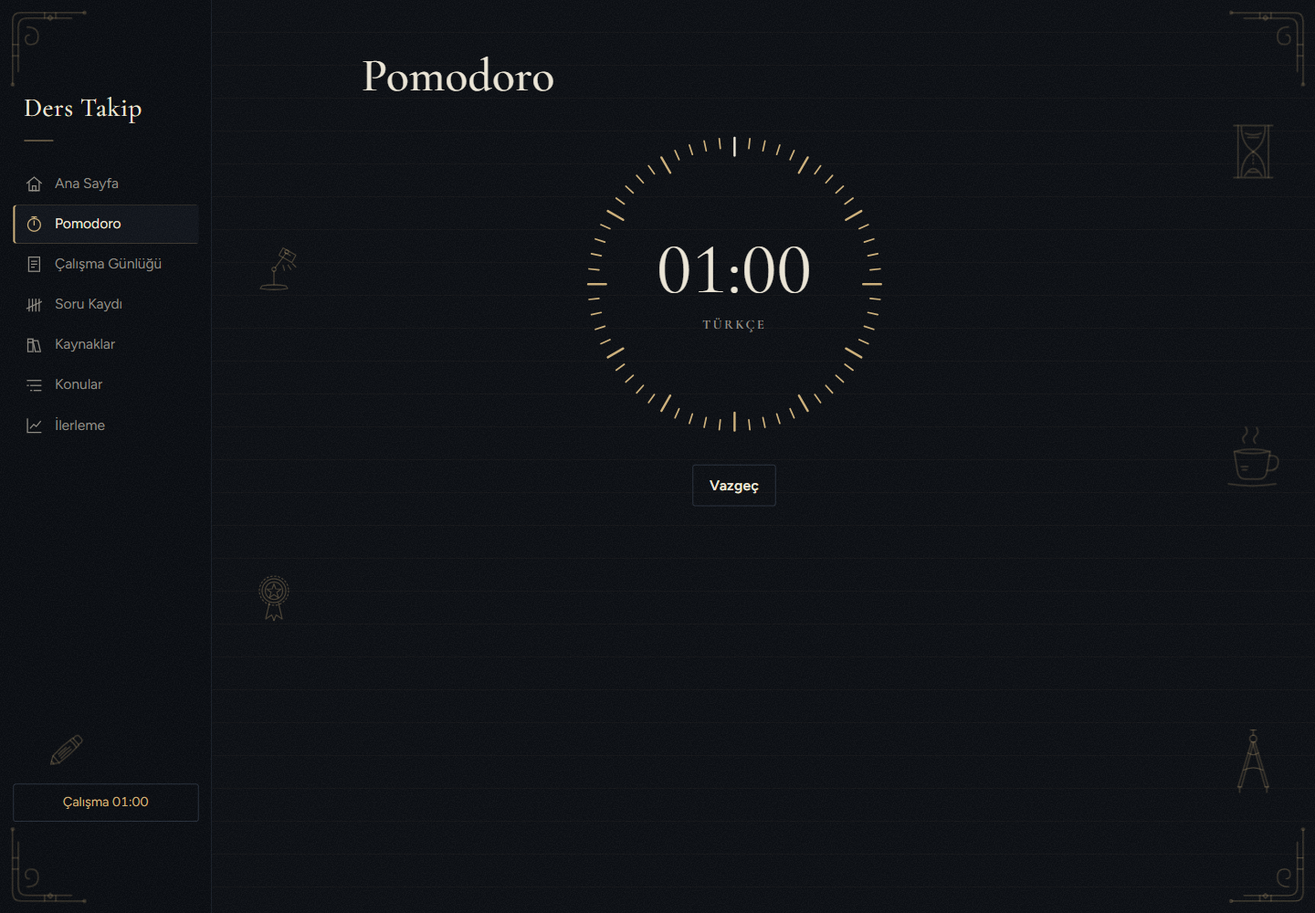
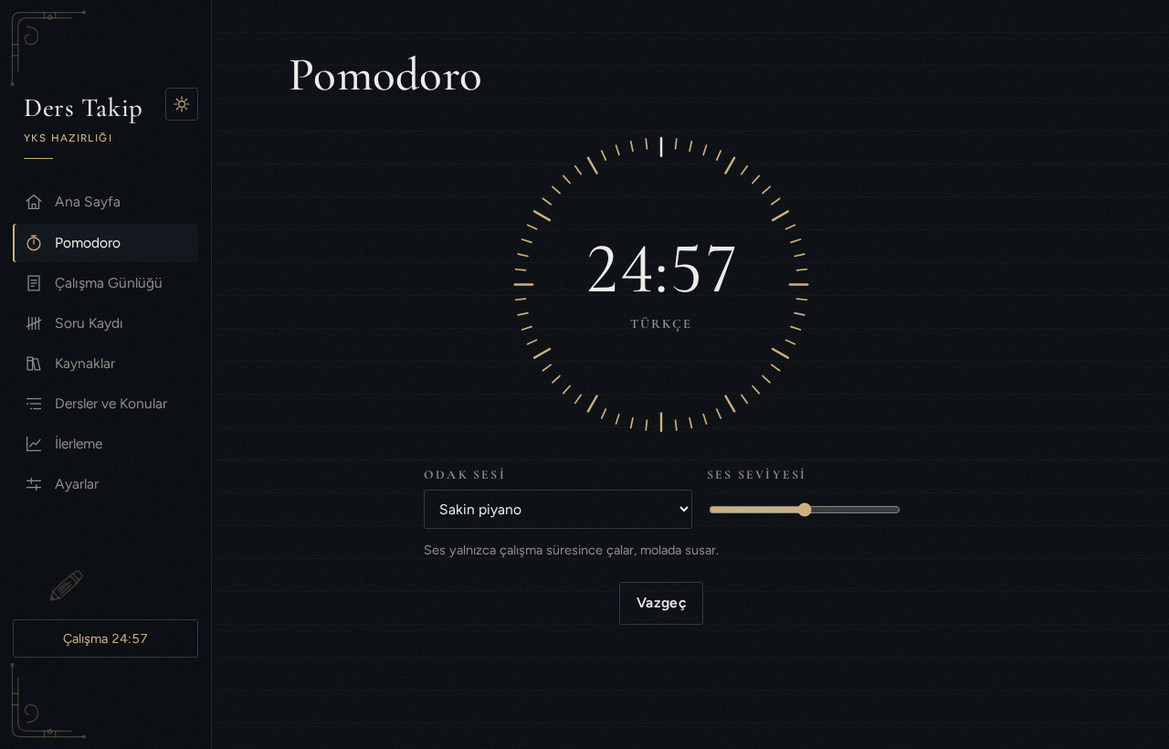
docs: README baştan düzenlendi, ekran görüntüleri yenilendi
- Üstte canlı bağlantı, rozetler ve özellik tablosu; geliştirici ayrıntıları altta
- 12 yeni ekran görüntüsü: koyu/açık tema, üç hedef, telefon

Claude-Session: https://claude.ai/code/session_014airMe4UURUxCNmxJrH4bD

diff --git a/README.md b/README.md
@@ -1,173 +1,177 @@
-# Ders Çalışma Takip Uygulaması
+# Ders Takip
 
-YKS, DGS ya da üniversite dersleri için kişisel bir çalışma takip uygulaması: Pomodoro ile çalışma süresini kaydet, çözdüğün soruları gir, test kitaplarında kaçıncı teste geldiğini takip et, ilerlemeni grafiklerle gör.
+**YKS, DGS ve üniversite dersleri için kişisel çalışma takip uygulaması.** Pomodoro ile çalış, süreni ve çözdüğün soruları kaydet, test kitaplarında nerede kaldığını takip et, ilerlemeni grafiklerle gör.
 
-Kendi çalışmam için yaptığım, tek kişilik bir proje. **Sunucusuz, tamamen statik bir web uygulamasıdır (PWA):** veriler senin tarayıcında (IndexedDB) durur, hiçbir yere gönderilmez; telefona ya da bilgisayara "uygulama olarak yüklenebilir" ve internet yokken de açılır. Uygulama mağazalarında yayınlanmaz.
+[![Yayın](https://github.com/yusufoztoprak495-star/ders-takip/actions/workflows/pages.yml/badge.svg)](https://github.com/yusufoztoprak495-star/ders-takip/actions/workflows/pages.yml)
+![React](https://img.shields.io/badge/React-19-149eca)
+![Vite](https://img.shields.io/badge/Vite-8-646cff)
+![PWA](https://img.shields.io/badge/PWA-çevrimdışı%20çalışır-5a0fc8)
+![Testler](https://img.shields.io/badge/test-349%20geçiyor-2ea44f)
 
-**Canlı hâli:** https://yusufoztoprak495-star.github.io/ders-takip/
+### 👉 [Uygulamayı aç](https://yusufoztoprak495-star.github.io/ders-takip/)
 
-![Ana sayfa: bugünün özeti, haftalık değişim, seri ve günün dersi](docs/screenshots/ana-sayfa.png)
+Kurulum yok, hesap yok. Veriler yalnızca senin tarayıcında durur, hiçbir sunucuya gönderilmez. Telefonda "Ana ekrana ekle" ile uygulama gibi kurulur ve internetsiz de açılır.
 
-![İlerleme sayfası: tüm derslerin özeti ve grafikler](docs/screenshots/ilerleme.png)
+![Ana sayfa: günün sözü, bugünün özeti, haftalık değişim, seri ve günün dersi](docs/screenshots/ana-sayfa.png)
 
-## Özellikler
+## Neler yapabilir?
 
-- **Çalışma hedefi (YKS / DGS / Üniversite):** İlk açılışta ve Ayarlar'da ne için çalıştığını seçersin. YKS'de TYT/AYT, DGS'de sayısal (matematik, geometri) ve sözel (Türkçe) ders ve konu listesi hazır gelir; üniversitede listeyi kendin kurarsın (ders adı ve isteğe bağlı dönem). Dersler, kayıtlar, kitaplar ve grafikler seçili hedefe göre ayrı tutulur. Hedef değiştirince diğer hedefin kayıtları silinmez, yalnızca gizlenir; geri dönünce yerinde durur. Sayaç çalışırken hedef değiştirilemez. Hedef bilgisi yedeğe de girer; eski veriler ve eski yedekler kendiliğinden YKS sayılır.
-- **Pomodoro:** Ders (ve isteğe bağlı konu) seçip çalışma sayacını başlatırsın. Sayaç, saat çerçevesi gibi 60 çentikli bir kadrandır: süre aktıkça çentikler söner (çalışmada turuncu, molada turkuaz). Süre dolunca çalışma otomatik kaydedilir ve mola başlar. Çalışma/mola süreleri ayarlanabilir (varsayılan 25/5 dk). Sayaç, başka sayfaya geçsen de menüde görünür ve devam eder. "Vazgeç" kayıt oluşturmaz. Kayıt yapılamazsa (örneğin tarayıcı depolaması kapalıysa) süre ekranda kalır ve "Tekrar dene" ile kaydedilebilir.
-- **Odak sesi:** Pomodoro'nun çalışma süresi boyunca arkada sakin bir ses çalar: sakin piyano, derin odak (ambiyans), yağmur ya da kahverengi gürültü (ya da kapalı). Ses seviyesi ayarlanır, sayaç çalışırken bile değiştirilebilir; molada ve "Vazgeç"te yavaşça susar. Ses dosyası yoktur: müzik Web Audio API ile tarayıcıda anlık üretilir (piyano notaları her ölçüde akorun seslerinden rastgele seçilir, bu yüzden hiç tekrar etmez ve uyumsuz ses çıkmaz), internetsiz de çalışır.
-- **Çalışma günlüğü:** Pomodoro kullanmadığın çalışmaları ders, konu, tarih ve dakika girerek elle eklersin. Bugünün kayıtları (Pomodoro ve elle girilenler) toplam süreyle listelenir, istediğini silebilirsin.
-- **Soru kaydı:** Tarih, ders, konu ve doğru/yanlış/boş sayılarını girersin (isteğe bağlı olarak hangi kitaptan çözdüğünü seçebilirsin). Net (doğru − yanlış/4) otomatik hesaplanır. Son 30 günün kayıtları listelenir; düzenleyebilir ve silebilirsin.
-- **Kaynaklar:** Yalnızca test kitapları: kitap adı, yayınevi ve ders ile eklersin. Her kitap kartında kaç test çözdüğün ("X test çözüldü") ve son çözüm tarihi görünür. "+1 test" düğmesiyle ya da sayıyı yazıp kaydederek sayacı güncellersin; sayı artınca son çözüm tarihi bugüne ayarlanır, kitaba bağlı soru kayıtlarının tarihi de hesaba katılır. Kitap "Elimde" ya da "Bitirdim" durumunda olur. Silerken onay istenir; kitabı silsen de ona bağlı soru kayıtların kaybolmaz.
-- **Dersler ve Konular:** Yeni ders ekleyebilir, dersin adını ve grubunu (TYT, Sayısal, 3. Dönem…) değiştirebilir, derse konu ekleyip konuları düzenleyebilirsin. Bir konuyu silsen de ona bağlı çalışma ve soru kayıtların silinmez, sadece konusuz kalır. Ders ise ancak ona bağlı çalışma, soru ya da kitap kaydı yoksa silinir (kayıtlar derssiz kalamaz).
-- **İlerleme (üç katman):**
-  - **Ana sayfa:** Son 7/14/30/90 günü seçip çalışma süresi, çözülen soru, net ve doğruluk oranı özetini görürsün. Altında tüm derslerin listesi ve grafikler (günlük/haftalık çalışma süresi, günlük net, derse göre süre ve doğru/yanlış/boş) var. Bir ders seçersen göstergeler ve zaman grafikleri o dersi gösterir.
-  - **Ders sayfası:** Bir derse tıklayınca açılır: o dersin göstergeleri, zaman grafikleri ve konular. Konular **en zayıftan en güçlüye** (doğruluk oranına göre) sıralanır; henüz soru çözmediğin konular sönük ve en altta durur.
-  - **Konu sayfası:** Bir konuya tıklayınca açılır: toplam çalışma süresi, çözülen soru, net, doğruluk, doğru/yanlış/boş dağılımı, zaman içinde doğruluk grafiği, hangi kitaplardan çözdüğün ve en son ne zaman çalıştığın.
-  - Sayfaların üstünde yol çubuğu (İlerleme › Matematik › Türev) bulunur. Grafiklerin üzerine gelince ayrıntı balonu çıkar; her grafiğin tablo görünümü de vardır.
-- **Veri güvenliği (Ayarlar):** Kalıcı depolama izni, yedeği indir/yükle, haftalık yedek hatırlatması ve bilgisayarda seçilen klasöre günlük otomatik yedek (son 14 tutulur). Ayrıntılar aşağıda, "Veriler ve yedekleme" bölümünde.
-- **Günün sözü:** Ana sayfa her açıldığında en üstte günün sözü durur: sahibi ve kaynağı belli motive edici sözler ve kitap alıntıları (Seneca, Marcus Aurelius, Konfüçyüs, Goethe, Tolstoy, atasözleri…). Her gün bir sonraki söze geçer, liste bitmeden hiçbiri tekrar etmez; "Başka söz" ile sıradakine bakılabilir.
-- **Ana sayfa:** Dört kart: bugünün özeti (süre, soru, net, doğruluk), haftalık değişim (son 7 gün önceki 7 güne göre, ↑ / ↓ yüzde), seri (kaç gündür üst üste çalıştığın) ve günün en çok çalışılan dersi. Altında son 7 günün çalışma ritmi vardır.
+| | |
+| --- | --- |
+| 🎯 **Üç hedef** | YKS (TYT/AYT), DGS (sayısal/sözel) ya da üniversite dersleri. Her hedefin dersleri ve kayıtları ayrı tutulur; hedef değiştirince öbürü silinmez, gizlenir. |
+| ⏱ **Pomodoro** | Ders ve konu seçip sayacı başlat; süre dolunca çalışma kendiliğinden kaydedilir. Arkada sakin piyano, ambiyans, yağmur ya da gürültü çalabilir (tarayıcıda anlık üretilir, ses dosyası yok). |
+| 📒 **Çalışma günlüğü** | Pomodoro dışındaki çalışmaları elle ekle. |
+| ✍ **Soru kaydı** | Doğru / yanlış / boş gir; net (`doğru − yanlış / 4`) ve doğruluk otomatik hesaplanır. |
+| 📚 **Kaynaklar** | Test kitaplarında kaçıncı testte olduğun ve son çözüm tarihi. |
+| 📈 **İlerleme** | Günlük ve haftalık süre, net değişimi, derse göre karşılaştırma; derse ve konuya inip **en zayıf konunu** gör. |
+| 🗂 **Dersler ve konular** | Hazır listeyi düzenle ya da kendi derslerini (dönemiyle) ekle. |
+| 🌗 **Açık / koyu tema** | Gerçek beyaz açık tema ve gece mavisi koyu tema; masaüstünde sol menü, telefonda alt menü. |
+| 💾 **Yedekleme** | Yedeği indir/yükle, haftalık hatırlatma, bilgisayarda bir klasöre günlük otomatik yedek. |
 
-| Pomodoro                                                  | Kaynaklar                                                               |
-| --------------------------------------------------------- | ----------------------------------------------------------------------- |
-| ![Çalışan Pomodoro sayacı](docs/screenshots/pomodoro.png) | ![Kaynak listesi ve ilerleme çubukları](docs/screenshots/kaynaklar.png) |
+> Üniversite hedefinde sınav mantığı yoktur: soru kaydı, kaynaklar, net ve doğruluk gizlenir; yalnızca Pomodoro ve çalışma süresi tutulur.
 
-![Soru kaydı formu ve son kayıtlar](docs/screenshots/soru-kaydi.png)
+## Ekran görüntüleri
 
-| Ders sayfası (konular zayıftan güçlüye)             | Konu sayfası                                        |
-| --------------------------------------------------- | --------------------------------------------------- |
-| ![Ders sayfası](docs/screenshots/ilerleme-ders.png) | ![Konu sayfası](docs/screenshots/ilerleme-konu.png) |
+| İlerleme | Ders ayrıntısı (konular zayıftan güçlüye) |
+| --- | --- |
+| ![İlerleme sayfası: göstergeler, ders listesi ve grafikler](docs/screenshots/ilerleme.png) | ![Ders sayfası](docs/screenshots/ilerleme-ders.png) |
 
-## Gereksinimler
+| Pomodoro | Konu ayrıntısı |
+| --- | --- |
+| ![Çalışan Pomodoro sayacı ve odak sesi](docs/screenshots/pomodoro.png) | ![Konu sayfası: doğru/yanlış/boş dağılımı, doğruluk grafiği, kitaplar](docs/screenshots/ilerleme-konu.png) |
 
-- [Node.js](https://nodejs.org) 22 veya üstü (yalnızca geliştirmek ve derlemek için; uygulamayı kullanmak için gerekmez)
+| Soru kaydı | Kaynaklar |
+| --- | --- |
+| ![Soru kaydı formu ve son kayıtlar](docs/screenshots/soru-kaydi.png) | ![Test kitapları](docs/screenshots/kaynaklar.png) |
 
-## Kurulum ve çalıştırma
+| Açık tema | Hedef seçimi |
+| --- | --- |
+| ![Açık temada ana sayfa](docs/screenshots/ana-sayfa-acik.png) | ![Ayarlar: YKS, DGS, Üniversite](docs/screenshots/hedef-secimi.png) |
+
+| Üniversite: dersler | Üniversite: yalnızca süre |
+| --- | --- |
+| ![Kendi eklenen üniversite dersleri](docs/screenshots/universite-dersler.png) | ![Üniversite modunda İlerleme](docs/screenshots/universite-ilerleme.png) |
+
+<p align="center"><img src="docs/screenshots/telefon.png" alt="Telefonda açık ve koyu tema" width="560"></p>
+
+> Görüntülerdeki veriler örnektir.
+
+---
+
+## Geliştirme
+
+**Gereksinim:** [Node.js](https://nodejs.org) 22+ (yalnızca geliştirmek için; uygulamayı kullanmak için gerekmez).
 
 ```bash
 git clone https://github.com/yusufoztoprak495-star/ders-takip.git
 cd ders-takip
 npm install
-npm run dev
+npm run dev        # http://localhost:5173
 ```
 
-| Komut             | Ne yapar                                                                     |
-| ----------------- | ---------------------------------------------------------------------------- |
-| `npm run dev`     | Geliştirme sunucusu: `http://localhost:5173`, kodu değiştirdikçe yenilenir     |
-| `npm run build`   | Uygulamayı derler (`client/dist`)                                            |
-| `npm run preview` | Derlenmiş hâli dener: `http://localhost:4173`                                |
-| `npm test`        | Tüm testleri çalıştırır                                                      |
+| Komut | Ne yapar |
+| --- | --- |
+| `npm run dev` | Geliştirme sunucusu, kod değiştikçe yenilenir |
+| `npm test` | Tüm testler (Vitest) |
+| `npm run build` | Derler (`client/dist`) |
+| `npm run preview` | Derlenmiş hâli dener: `http://localhost:4173` |
 
-Sunucu, veritabanı ya da `.env` dosyası yoktur; `npm install` dışında bir kurulum gerekmez.
+Sunucu, veritabanı ya da `.env` yoktur. `master` dalına her gönderimde GitHub Actions testleri çalıştırır, derler ve GitHub Pages'e yayınlar (`.github/workflows/pages.yml`).
 
-### Yayınlama
+### Teknolojiler
 
-`master` dalına her gönderimde GitHub Actions (`.github/workflows/pages.yml`) testleri çalıştırır, uygulamayı derler ve GitHub Pages'e yayınlar. Uygulama `HashRouter` kullandığı için alt klasörde (`kullanici.github.io/depo/`) sorunsuz çalışır. Tarayıcıda "Yükle" ya da "Ana ekrana ekle" ile uygulama gibi kurulur; servis çalışanı (`client/public/sw.js`) açılan dosyaları önbelleğe alır, internet yokken oradan verir.
+| Katman | Seçim |
+| --- | --- |
+| Arayüz | React 19 + Vite, React Router (`HashRouter`: alt klasörde de çalışır) |
+| Veri | Tarayıcıda IndexedDB, tek kayıt olarak (yazma atomik: ya hepsi ya hiçbiri) |
+| Çevrimdışı | Manifest + servis çalışanı (`client/public/sw.js`) |
+| Grafikler | Elle çizilmiş SVG, kütüphanesiz |
+| Yazı tipi | Cormorant Garamond + Figtree, projeye gömülü (`@fontsource`) |
+| Test | Vitest |
 
-## Veriler ve yedekleme
+### Proje yapısı
 
-Veriler tarayıcının kendi deposunda (IndexedDB) durur. Tarayıcı bu depoyu silerse (site verilerinin temizlenmesi, disk dolması) veriler kaybolur; bu yüzden üç önlem vardır. Hepsi **Ayarlar** sayfasındadır:
+```
+client/
+  public/            manifest, simge, servis çalışanı
+  src/
+    pages/           Ana sayfa, Pomodoro, Günlük, Soru Kaydı, Kaynaklar, Dersler ve Konular, İlerleme, Ayarlar
+    components/      ortak parçalar, hedef seçici, Pomodoro kadranı, SVG grafikler, çizimler
+    context/         Pomodoro sayacı, çalışma hedefi, klasör yedeği
+    hooks/, lib/     saf yardımcılar (tarih, süre, grafik, tema, hedefler, yedek)
+    data/            tarayıcıdaki veri katmanı (aşağıda)
+    api.js           apiFetch('/api/...') çağrılarını yerel veri katmanına yönlendirir
+  tests/             arayüz yardımcıları; tests/data/ veri katmanı
+docs/                tasarım belgeleri, uygulama planları, ekran görüntüleri
+```
 
-- **Kalıcı depolama izni:** Uygulama açılışta tarayıcıdan `navigator.storage.persist()` ile kalıcılık ister; verilirse tarayıcı verileri kendiliğinden silmez. İzin durumu Ayarlar'da görünür. Tarayıcı bu izni sorabilir, sessizce verebilir ya da reddedebilir.
-- **Yedeği indir / yükle:** Tüm veriyi `yedek-YYYY-AA-GG.json` dosyası olarak indirir; aynı dosyayı yükleyerek geri alırsın (mevcut verinin yerine geçer, geçersiz dosya reddedilir). Son yedek 7 günden eskiyse (ya da hiç yoksa) Ana sayfada hatırlatma çıkar. Telefon gibi her tarayıcıda çalışır.
-- **Yedek klasörü (otomatik):** "Yedek klasörü seç" ile bilgisayarında bir klasör seçersin. Uygulama her gün ilk açılışta oraya tarihli bir JSON yedeği yazar, son 14 yedeği tutar ve eskilerini siler (yalnızca `yedek-YYYY-AA-GG.json` adlı dosyalara dokunur). Bu özellik File System Access API ister: **yalnızca Chromium tabanlı masaüstü tarayıcılarda (Chrome, Edge) çalışır**; Firefox ve telefonlarda bölüm gizlenir. Tarayıcı yeni oturumda klasör iznini kendiliğinden vermeyebilir; o zaman Ana sayfada ve Ayarlar'da "Yedeklemeyi sürdür" düğmesi çıkar, tıklayınca yedek yazılır.
+### Veri katmanı
 
-İlk kurulumda TYT/AYT ders ve konu listesi otomatik yüklenir.
+Proje önce Node.js + SQLite sunucusuyla yazıldı, sonra sunucusuz hâle getirildi. Sayfalar değişmesin diye `apiFetch('/api/...')` çağrıları aynen kaldı; artık ağa değil `client/src/data/` içindeki yerel veritabanına gidiyor.
 
-## Testler
+| Yol | Açıklama |
+| --- | --- |
+| `/api/settings` | Seçili çalışma hedefi (`yks`, `dgs`, `uni`) |
+| `/api/subjects` | Seçili hedefin dersleri, konularıyla; ders ekle / düzenle / sil |
+| `/api/topics` | Konu ekle / yeniden adlandır / sil |
+| `/api/sessions` | Çalışma kayıtları |
+| `/api/questions` | Soru kayıtları (net hesaplanarak döner) |
+| `/api/resources` | Test kitapları |
+| `/api/stats/daily`, `by-subject`, `by-topic`, `topic/:id` | İstatistikler |
+
+<details>
+<summary><b>Kurallar</b> (doğrulama, net, gün sınırı, silme, hedefler)</summary>
+
+- **Doğrulama veri katmanındadır.** Arayüzdeki kontroller yalnızca kolaylıktır; her girdiyi veri katmanı Türkçe mesajla reddeder (`HttpError` → arayüzde `ApiError`).
+- **Net saklanmaz,** her seferinde `doğru − yanlış / 4` olarak hesaplanır. Doğruluk `doğru / (doğru + yanlış + boş)`; hiç soru yoksa `null` ("veri yok", sıfır değil).
+- **Gün sınırı yereldir.** Çalışmalar UTC saklanır, istatistikler yerel güne göre ayrılır: gece 00:30'daki çalışma o günün sayılır.
+- **Sınırlar:** bir çalışma en fazla 24 saat, doğru/yanlış/boş ve test sayısı en fazla 10000, tarihler 2000–2100.
+- **Silme:** silinen konuya/kitaba bağlı kayıtlar silinmez, bağlantıları boşalır. Kaydı olan ders silinmez.
+- **Hedefler:** her dersin bir `track` alanı vardır; listeler ve istatistikler yalnızca seçili hedeften hesaplanır. Hazır ders listesi bir hedef ilk seçildiğinde bir kez yüklenir. Üniversite derslerine soru ve kitap kaydı eklenemez. Hedeflerden önceki eski veriler ve yedekler kendiliğinden YKS sayılır.
+
+</details>
+
+### Veriler ve yedekleme
+
+Veriler tarayıcının deposunda (IndexedDB) durur; site verileri temizlenirse kaybolabilir. Bu yüzden **Ayarlar**'da üç önlem var:
+
+- **Kalıcı depolama izni** (`navigator.storage.persist()`): verilirse tarayıcı verileri kendiliğinden silmez.
+- **Yedeği indir / yükle:** `yedek-YYYY-AA-GG.json`. Yüklenen dosya doğrulanır, geçersizse reddedilir. Son yedek 7 günden eskiyse ana sayfada hatırlatma çıkar.
+- **Yedek klasörü:** bilgisayarda seçilen klasöre her gün ilk açılışta yedek yazılır, son 14'ü tutulur. File System Access API ister: yalnızca masaüstü Chrome / Edge.
+
+### Güvenlik
+
+- Derlenmiş sayfada **içerik güvenlik politikası (CSP)** vardır: sayfa yalnızca kendi dosyalarını yükler, dışarıdaki bir adrese bağlanamaz. Tek satır içi betik (tema) özetiyle (hash) izinlidir.
+- Yedek dosyasındaki her tablo ve ayar doğrulanır, bilinmeyen alanlar atılır.
+- Servis çalışanı yalnızca başarılı cevapları önbelleğe alır.
+- Bağımlılıklarda bilinen açık yok (`npm audit`).
+
+### Testler
 
 ```bash
 npm test
 ```
 
-Testler Vitest ile yazıldı ve iki gruptur:
+- **Veri katmanı** (`client/tests/data/`): her uç için başarılı ve hatalı durumlar, doğrulama, gün sınırı, net/istatistik hesapları, hedefe göre süzme, eski verinin taşınması, yedek doğrulaması ve klasör yedeği (sahte klasörle).
+- **Arayüz yardımcıları** (`client/tests/`): Pomodoro süresi, kadran, tarih/süre biçimi, grafik eksenleri, tema seçimi, odak sesi.
 
-- **Veri katmanı** (`client/tests/data/`): tarayıcıdaki "veritabanı"nın her ucu için başarılı ve başarısız durumlar, doğrulama, gün sınırı gibi riskli yerler, net/istatistik hesapları, yedek doğrulaması ve klasör yedeğinin mantığı (sahte klasörle).
-- **Arayüz yardımcıları** (`client/tests/`): hesap yapan küçük saf parçalar: Pomodoro süre hesabı ve kadran çentikleri, tarih ve süre biçimlendirme, grafik verisi ve eksen hesapları, yedek dosya adı ve döndürme, kalıcı depolama durumu.
-
-Sayfaların görünümü testlerle yakalanamaz; her sayfa tarayıcıda gerçekten açılıp denenir. Klasör izni gibi tarayıcıya özgü kısımlar elle denenir.
+Sayfaların görünümü testlerle yakalanmaz; her değişiklik tarayıcıda masaüstü ve telefon genişliğinde açılıp denenir.
 
 ## Tasarım
 
-Hedef his: deri kaplı bir ajanda ve dolma kalem. Gece mavisi-kömür zemin, kırık beyaz yazı ve az kullanılan şampanya altını vurgu (etkin menü öğesi, ana düğmeler, Pomodoro kadranı, ince ayırıcılar).
+Hedef his: deri kaplı bir ajanda ve dolma kalem.
 
-- **Tipografi:** Başlıklarda zarif **Cormorant Garamond**, metinde okunaklı **Figtree**. Etiketler küçük boyutlu büyük harf ve geniş harf aralığıyla yazılır (gerçek small caps yerine `text-transform` kullanıldı, çünkü yazı tipinin small caps tablosu Türkçe noktalı İ'yi üretmiyor). Tüm sayılar düz ve tabular rakamdır, alt alta düzgün hizalanır. Font dosyaları projeye gömülüdür; uygulama internet olmadan da aynı görünür.
-- **Yüzeyler:** Kalın gölge yok; kartlar 1px çizgi kenarlıklı, üstte ince altın ışık çizgisiyle. Bol boşluk, ince ayırıcı çizgiler, başlık altlarında kısa altın çizgi.
-- **Doku:** Zeminde çok hafif kâğıt dokusu (grain) ve defter çizgileri.
-- **Açık ve koyu tema:** Menüdeki güneş/ay düğmesiyle geçilir. Açık tema beyaz kartlar, çok açık gri zemin, neredeyse siyah yazı ve lacivert vurgu ile gelir. Önceki krem/sepya açık tema sıcak renkli ekranlarda, gece ışığı ya da okuma modu açıkken ve bazı telefon panellerinde sarı görünüyordu; bu yüzden zemin, gölge ve kâğıt dokusu renk tonu olmayan nötr gri-beyaza çevrildi. Seçim tarayıcıda hatırlanır; kayıt yoksa bilgisayarın sistem temasına uyulur. Tarayıcı sayfaları zorla karartıyorsa (Chrome "Auto Dark Mode", Samsung Internet karanlık modu) uygulama kendi koyu temasıyla açılır: aksi hâlde tarayıcı açık temayı ters çevirip yazıları altın-bej gösteriyordu. Tespit, açık renk şemalı bir öğenin `Canvas` sistem renginin koyu dönmesine bakılarak yapılır. Tüm renkler CSS değişkenlerindedir (koyu: `index.css`, açık: `theme.css`); yazılar WCAG AA kontrastını geçer.
-- **Etkileşim:** Geçişler kısa ve yumuşaktır (0,16 sn), abartılı animasyon yoktur.
-- **Grafikler:** Elle çizilmiş SVG, kütüphanesiz. Renkleri (pirinç, deniz yeşili, kiremit) renk körlüğü ve karşıtlık kontrollerinden geçirildi.
-- **Motifler:** 13 özel çizim: dolma kalem, kurşun kalem, kitap yığını, açık defter, kum saati, pergel, cetvel, masa lambası, kahve fincanı, ataç, mühür, küre ve mektup zarfı. Hepsi aynı ince çizgi kalınlığında, tek renkte (altın) ve düşük opaklıkta, gravür tarzı tarama çizgileriyle. Dört ekran köşesinde süslemeli köşe ornamentleri vardır. Her sayfa farklı bir motif düzeni alır, stil aynı kalır.
-- **Okunabilirlik:** Motifler yalnızca içerik kutusunun dışındaki boş kenar boşluklarında durur; dar ya da kısa ekranlarda gizlenir. Bu, tarayıcıda 390–1920px arası genişlik, 540–1080px arası yükseklik ve tüm sayfalarda ölçülerek doğrulandı (600'den fazla ölçümde veri, form ya da grafiklerle çakışma yok).
-- **Boş durumlar:** Henüz kayıt yokken büyük bir çizim ve ne yapılacağını söyleyen kısa bir yönlendirme gösterilir.
-
-![Boş durum: henüz kitap yok](docs/screenshots/bos-durum.png)
-
-Masaüstünde sol menü, telefonda alt sekme çubuğu kullanılır.
-
-## Teknolojiler
-
-| Katman     | Teknoloji                                                             |
-| ---------- | --------------------------------------------------------------------- |
-| Arayüz     | React + Vite (React Router, `HashRouter`)                             |
-| Veri       | Tarayıcıda IndexedDB (tek kayıt olarak saklanır, yazma atomiktir)     |
-| Çevrimdışı | Web uygulama bildirimi (manifest) + servis çalışanı                   |
-| Grafikler  | Elle çizilmiş SVG (kütüphanesiz)                                      |
-| Yazı tipi  | Cormorant Garamond (başlık), Figtree (metin); `@fontsource`, gömülü   |
-| Test       | Vitest                                                                |
-
-## Proje yapısı
-
-```
-client/
-  public/                 manifest, simge, servis çalışanı
-  src/
-    pages/                Ana sayfa, Pomodoro, Çalışma Günlüğü, Soru Kaydı, Kaynaklar, Konular, İlerleme (özet, ders, konu), Ayarlar
-    components/, hooks/   ortak parçalar, ikonlar, çizimler (Doodles), Pomodoro kadranı, SVG grafikler
-    context/              Pomodoro sayacının ve klasör yedeğinin durumu
-    lib/                  saf yardımcı fonksiyonlar (tarih, süre, grafik verisi, eksen, kadran, yedek, kalıcı depolama)
-    data/                 tarayıcıdaki veri katmanı: database.js, storage.js (IndexedDB ve bellek içi),
-                          router.js + routes/, validation.js, stats.js, seed.js, backupFolder.js
-    api.js                apiFetch('/api/...') çağrılarını yerel veri katmanına yönlendirir
-  tests/                  (veri katmanı testleri tests/data/ altında)
-docs/                     tasarım belgeleri, uygulama planları, ekran görüntüleri
-.github/workflows/        GitHub Pages yayını
-```
-
-## Veri katmanı
-
-Proje önce Node.js sunucusu ve SQLite ile yazıldı, sonra sunucusuz hâle getirildi. Sayfalar değişmesin diye `apiFetch('/api/...')` çağrıları aynen duruyor; artık ağa değil `client/src/data/` içindeki yerel veritabanına gidiyor. Yollar eski API ile aynıdır:
-
-| Yol                                                          | Açıklama                                                          |
-| ------------------------------------------------------------ | ----------------------------------------------------------------- |
-| `/api/settings`                                              | Seçili çalışma hedefi (`yks`, `dgs`, `uni`) oku / değiştir        |
-| `/api/subjects`                                              | Seçili hedefin dersleri (konularıyla); ders ekle / düzenle / sil  |
-| `/api/topics`                                                | Konu ekle / yeniden adlandır / sil                                |
-| `/api/sessions`                                              | Çalışma kayıtları (tarih aralığı isteğe bağlı, yerel tarihe göre) |
-| `/api/questions`                                             | Soru kayıtları, net ile birlikte                                  |
-| `/api/resources`                                             | Test kitapları (çözülen test sayısı ve son çözüm tarihiyle)       |
-| `/api/stats/daily`, `by-subject`, `by-topic`, `topic/:id`    | Günlük, ders bazında ve konu bazında istatistikler                |
-
-Hatalar Türkçe mesajla gelir (`HttpError` 400 geçersiz girdi, 404 kayıt yok; arayüzde `ApiError`). **Doğrulama veri katmanındadır:** arayüzdeki kontroller yalnızca kolaylıktır, her girdiyi veri katmanı reddeder.
-
-**Net hesabı:** `net = doğru − yanlış / 4`. Net saklanmaz, her seferinde hesaplanır.
-
-**Doğruluk oranı:** `doğru / (doğru + yanlış + boş)`, yüzde olarak yuvarlanır. Hiç soru çözülmemişse `null` döner (sıfır değil, "veri yok" demektir).
-
-**Gün sınırı:** Çalışma kayıtları evrensel saatle (UTC) saklanır, istatistikler ise bilgisayarının yerel saatine göre günlere ayrılır. Gece 00:30'da başlayan çalışma o günün sayılır.
-
-**Sınırlar:** Yazım hatalarının istatistikleri bozmaması için bir çalışma kaydı en fazla 24 saat, soru kaydında doğru/yanlış/boş her biri en fazla 10000, bir kitaptan çözülen test sayısı en fazla 10000 olabilir. Tarihler 2000–2100 yılları arasında olmalıdır.
-
-**Silme:** Silinen konuya ya da kaynağa bağlı kayıtlar silinmez, bağlantıları boşalır. Kaydı olan ders silinmez.
-
-**Hedefe göre süzme:** Her dersin bir hedefi (`track`) vardır. Ders, çalışma, soru ve kitap listeleri ile istatistikler yalnızca seçili hedefin derslerinden hesaplanır; diğer hedeflerin verisi veritabanında aynen durur. Bir hedefin hazır ders listesi o hedef ilk seçildiğinde bir kez yüklenir (hazır bir dersi silersen geri gelmez).
-
-**Güvenlik:** Derlenmiş sayfada içerik güvenlik politikası (CSP) vardır: sayfa yalnızca kendi dosyalarını yükleyebilir, dışarıdaki bir adrese bağlanamaz; tek satır içi betik (tema) özetiyle (hash) izinlidir. Yedek dosyası yüklenirken her tablo ve ayar doğrulanır, bilinmeyen alanlar atılır.
+- **Koyu tema:** gece mavisi-kömür zemin, kırık beyaz yazı, az ve yerinde şampanya altını.
+- **Açık tema:** beyaz kartlar, çok açık gri zemin, lacivert vurgu. İlk sürümdeki krem/sepya açık tema bazı ekranlarda ve gece ışığında sarı göründüğü için renk tonu olmayan nötr beyaza çevrildi.
+- **Tarayıcıların zorla karartması:** mobil Chrome ve Samsung Internet'in karanlık modu açık temayı ters çevirmesin diye sayfa `color-scheme` ile iki temayı da kendisinin desteklediğini bildirir; açık tema `only light` olarak işaretlidir.
+- **Tipografi:** başlıklarda Cormorant Garamond, metinde Figtree; tüm sayılar düz ve tabular, alt alta hizalı.
+- **Grafikler:** elle çizilmiş SVG; renkler renk körlüğü ve karşıtlık kontrolünden geçti, yazılar WCAG AA kontrastını sağlar. Her grafiğin tablo görünümü vardır.
+- **Motifler:** 13 gravür tarzı çizim (dolma kalem, kum saati, pergel…), yalnızca içeriğin dışındaki boş kenarlarda; dar ekranda gizlenir.
 
 ## Yol haritası
 
-- PDF'ten soru üretme (henüz yapılmadı; ileride eklenecek).
+- PDF'ten soru üretme (ileride).
 
 ## Nasıl yapıldı?
 
-Proje, önce tasarım ve plan yazılıp sonra küçük adımlarla (her adımda test ve commit) geliştirildi. Tasarım belgesi ve uygulama planı `docs/superpowers/` altında durur.
+Önce tasarım ve plan yazıldı, sonra küçük adımlarla (her adımda test ve commit) geliştirildi. Tasarım belgeleri ve uygulama planları `docs/superpowers/` altında.
